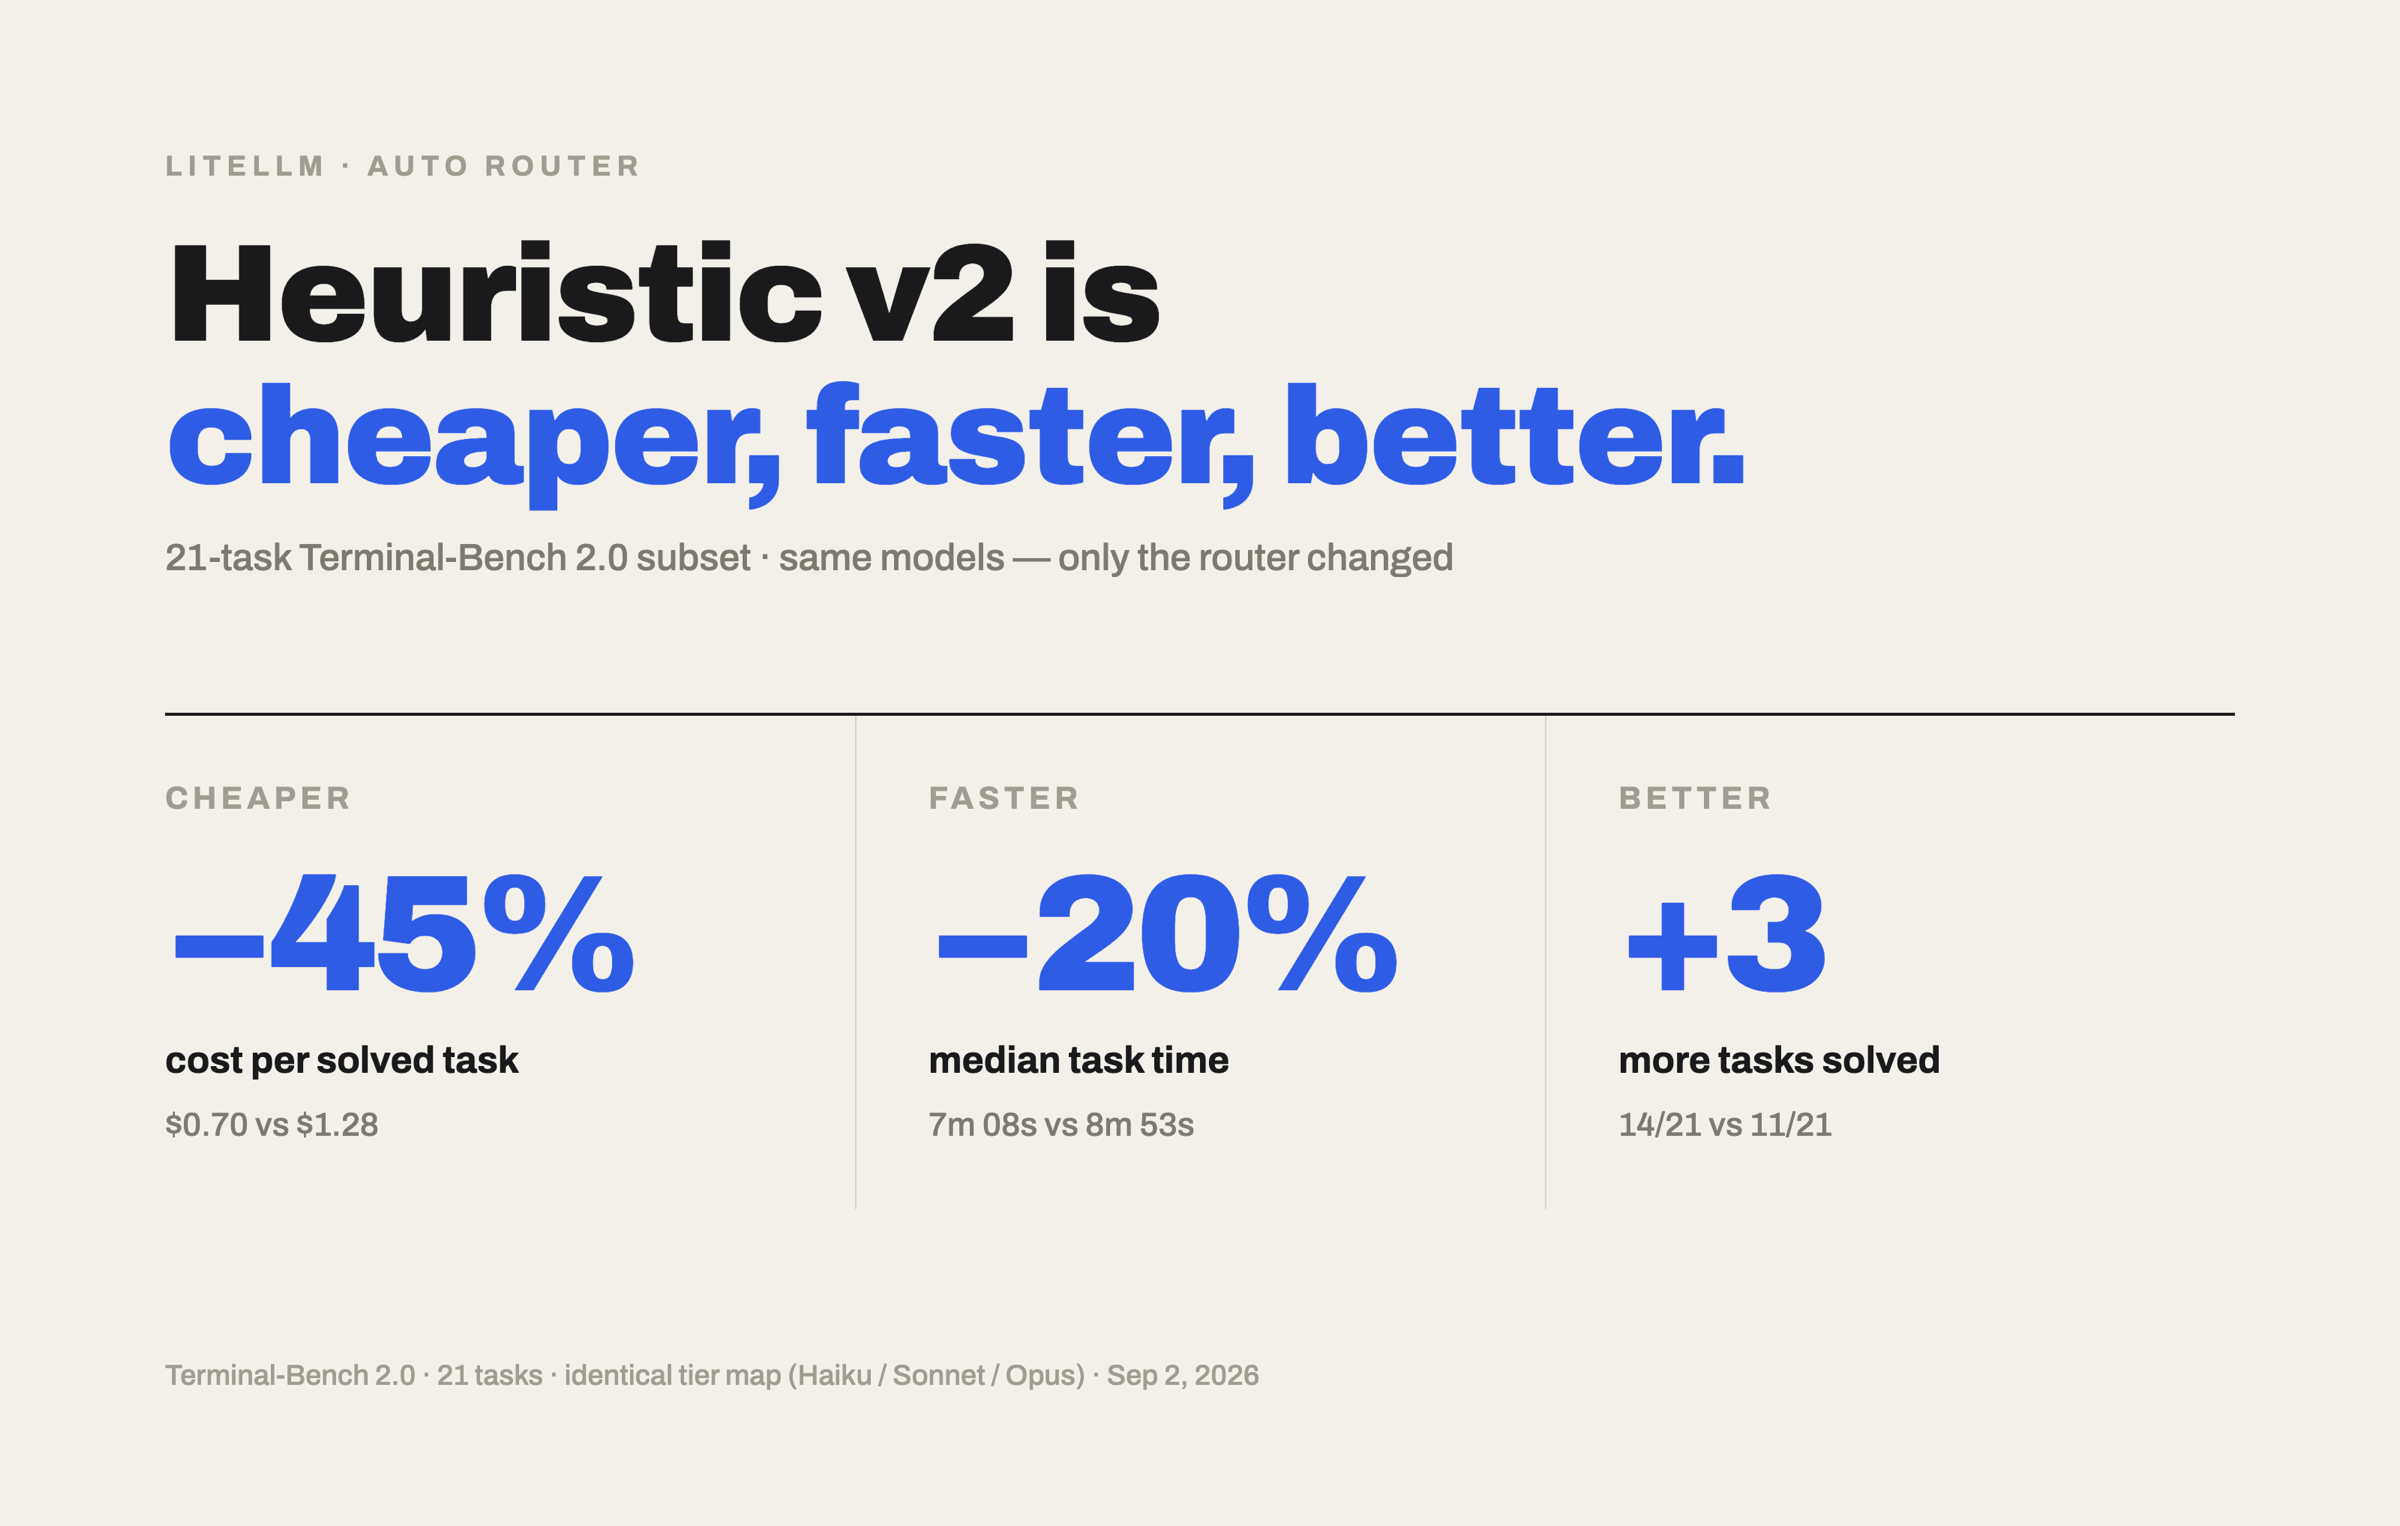
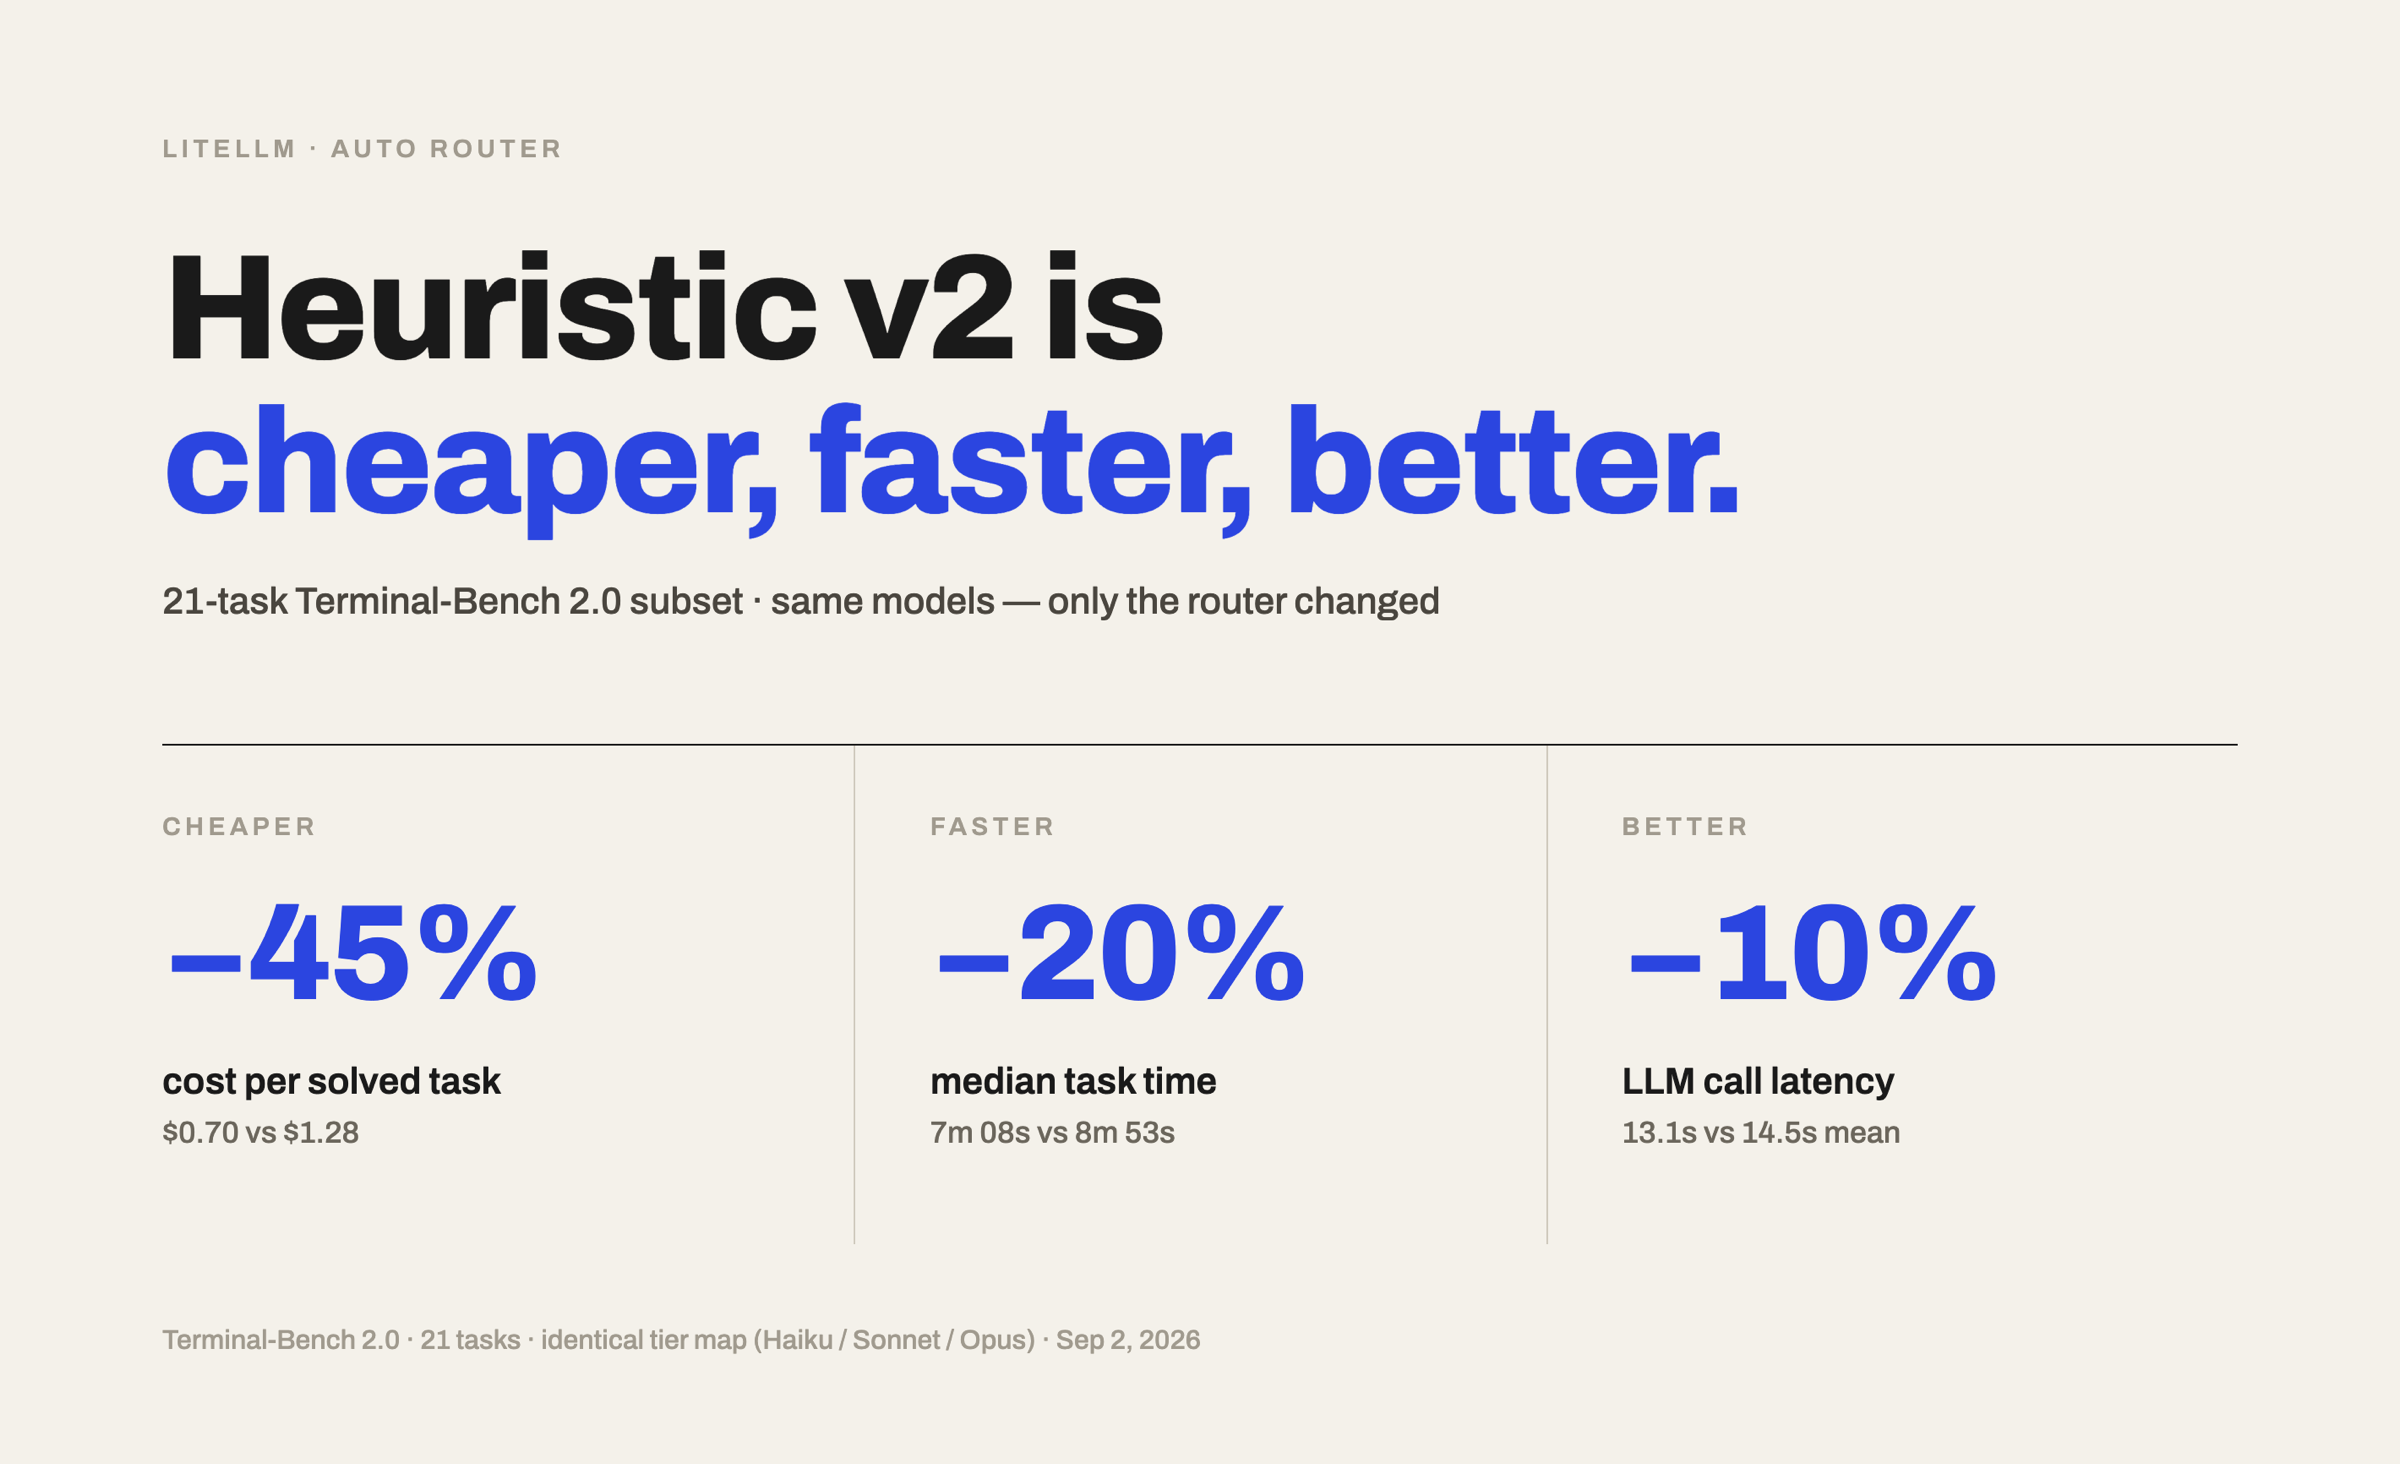
docs(blog): swap hero for the latency-callout version
Cost/median-task-time/LLM-call-latency stat grid, matching alt text.

Claude-Session: https://claude.ai/code/session_016v38ew9Xpky6wW8pftkaMh

diff --git a/blog/heuristic_v2/index.md b/blog/heuristic_v2/index.md
@@ -11,7 +11,7 @@ tags: [routing, complexity-router, cost, benchmarks, engineering, product]
 hide_table_of_contents: false
 ---
 
-![Heuristic v2 is cheaper, faster, and better: -45% cost per solved task, -20% median task time, +3 more tasks solved, on a 21-task Terminal-Bench 2.0 subset](./hero.png)
+![Heuristic v2 is cheaper, faster, and better: -45% cost per solved task, -20% median task time, -10% LLM call latency, on a 21-task Terminal-Bench 2.0 subset](./hero.png)
 
 **Heuristic v2, LiteLLM's new Auto Router classifier, is up to 45% more efficient than Heuristic v1: more tasks solved, at lower cost, in less time.** Only the classifier changed.
 
